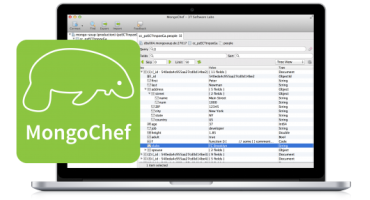
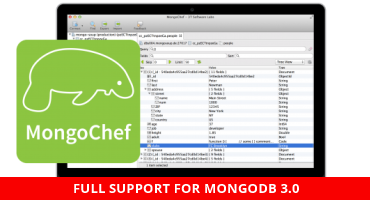
Updated tools from 3t.io

Changed region(s): [[0.0, 0.87, 1.0, 1.0]]

diff --git a/_tools/3t-mongochef.md b/_tools/3t-mongochef.md
@@ -13,15 +13,15 @@ environments:
 
 # Info about the tool on mongodb-tools.com
 purpose: GUI
-description: 3T MongoChef is a multi-platform in-place data browser and editor GUI for MongoDB. 3T MongoChef is free for personal and non-commercial use.
+description: 3T MongoChef is a MongoDB GUI for Mac, Windows, and Linux. 3T MongoChef is free for personal and non-commercial use. Full support for MongoDB 3.0
 slug: 3t-mongochef
 img: 3t-mongochef.png
 permalink: /tool/3t-mongochef/
 layout: tool
 
 # Release Info
-latest_release_date: 2014-10-09
-latest_release_version: 1.7.8
+latest_release_date: 2015-02-19
+latest_release_version: 1.10.3
 
 # Github Info
 github_repo: 

diff --git a/_tools/3t-data-compare-and-sync.md b/_tools/3t-data-compare-and-sync.md
@@ -13,15 +13,15 @@ environments:
 
 # Info about the tool on mongodb-tools.com
 purpose: GUI
-description: 3T Data Compare & Sync is a multi-platform data comparison and synchronization GUI tool for MongoDB.
+description: 3T Data Compare & Sync is a multi-platform data comparison and synchronization GUI tool for MongoDB with full support for MongoDB 3.0
 slug: 3t-data-compare-and-sync
 img: 3t-data-compare-and-sync.png
 permalink: /tool/3t-data-compare-and-sync/
 layout: tool
 
 # Release Info
-latest_release_date: 2014-09-30
-latest_release_version: 1.7.1
+latest_release_date: 2014-02-18
+latest_release_version: 1.7.6
 
 # Github Info
 github_repo: 

diff --git a/_tools/3t-schema-explorer.md b/_tools/3t-schema-explorer.md
@@ -13,15 +13,15 @@ environments:
 
 # Info about the tool on mongodb-tools.com
 purpose: GUI
-description: 3T Schema Explorer is a multi-platform schema analysis GUI tool for MongoDB.
+description: 3T Schema Explorer is a multi-platform schema analysis GUI tool for MongoDB with full support for MongoDB 3.0
 slug: 3t-schema-explorer
 img: 3t-schema-explorer.png
 permalink: /tool/3t-schema-explorer/
 layout: tool
 
 # Release Info
-latest_release_date: 2014-09-30
-latest_release_version: 1.6.1
+latest_release_date: 2015-02-09
+latest_release_version: 2.1.1
 
 # Github Info
 github_repo: 
